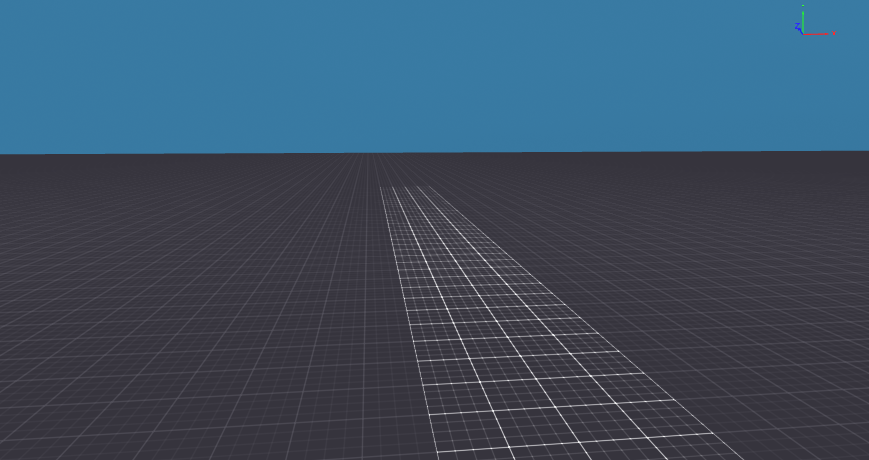
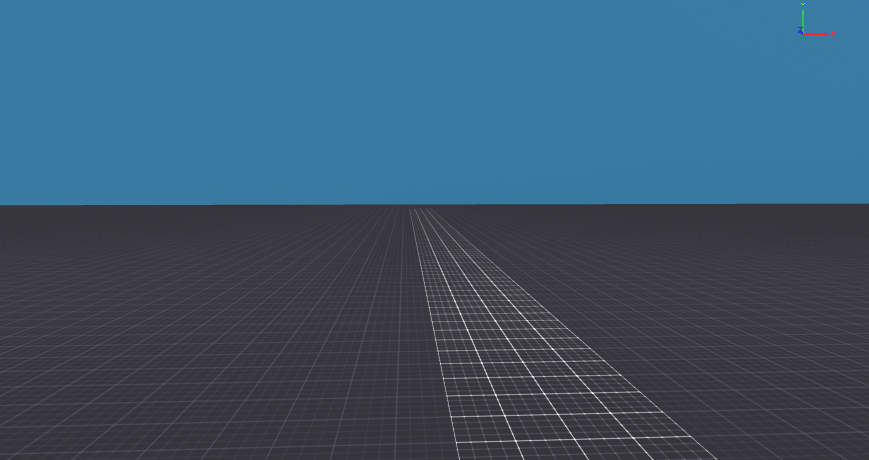
obstacles, baked ghosts optimization

Changed region(s): [[0.0, 0.3043, 1.0, 1.0], [0.9321, 0.0609, 0.9632, 0.0913]]

diff --git a/src/shared/bakedGhosts.ts b/src/shared/bakedGhosts.ts
@@ -5,14 +5,14 @@ import type { GhostChunk } from './codec'
 export const BAKED_GHOSTS: { name: string; chunks: GhostChunk[] }[] = [
   {
     name: "Rival A",
[2 lines of base64/hex data omitted]
   },
   {
     name: "Rival B",
[2 lines of base64/hex data omitted]
   },
   {
     name: "Rival C",
[2 lines of base64/hex data omitted]
   }
 ]

diff --git a/src/shared/track.ts b/src/shared/track.ts
@@ -48,13 +48,28 @@ export const TRACK_ORIGIN = Vector3.create(8, 0, 4)
  * walls at the turns stay inside the 16 m-wide parcel column).
  *
  * Pitch profile: 7.9° → 10.3° → 13.9° → 15.9° (steepening, so the three turn
- * joints are all CONCAVE and support the sphere), then eases 15.9° → 4.0° →
- * 2.2° → 1.1° → 0.4° across four gentle weaving transition steps before the
- * flat run-out (length pass, Sept 2026 — extended the easing tail instead of
- * adding a second steep S-bend, so every new joint stays CONVEX/seamless like
- * the original two transition steps; SEAM_Z below still only lists the three
- * original concave turn joints). pinForce keeps the sphere glued through the
- * concave joints; the convex ones need none.
+ * joints are all CONCAVE and support the sphere), then 2.0° → 3.6° → 1.2° →
+ * 4.5° across four weaving transition steps before the flat run-out (length
+ * pass, Sept 2026, redesigned in the kicker pass below — every segment here
+ * has real slope, none near-flat, on purpose: "some more, some less").
+ *
+ * Two of those four STEEPEN going in (2.0°→3.6° into joint5, 1.2°→4.5° into
+ * joint7) — the same kind of transition as the three turn joints: CONCAVE, the
+ * shallower slab's forward extension rides proud of the next steeper slab (a
+ * soft step-down that needs grip). SEAM_Z below lists indices [1,2,3,5,7] —
+ * the turn joints AND these two. The other two (15.9°→2.0° into joint4,
+ * 3.6°→1.2° into joint6) ease and stay CONVEX/seamless, same as the original
+ * transition joints — no pinning needed.
+ *
+ * Kicker pass history (Sept 2026): the tail originally eased 15.9°→4.0°→2.2°→
+ * 1.1°→0.4°, nearly flat for the last ~190 m — felt like crawling. Round 1
+ * reshuffled the fixed joint4→joint7(=RUNOUT_Y, then 3.9) budget into one
+ * kicker (~3.1°, budget-capped). Round 2 lowered RUNOUT_Y to 1.5 for a bigger
+ * budget (~5.4° kicker), but left joints 5-6 an almost-flat coast — "one
+ * section has no tilt". Round 3 (current) redesigned the whole tail for
+ * continuous variation instead of a flat coast + single kicker; RUNOUT_Y is
+ * now 0. RUNOUT_Y here, joint7 and RUNOUT_END in track-joints.ts are one
+ * edited set — keep all three equal.
  *
  * Δyaw at the three turn joints ≈ −14° / +18° / −14°. Edit the shape in
  * src/shared/track-joints.ts, then re-run `npm run gen-track`.
@@ -68,8 +83,9 @@ export const RUNOUT_START_Z = 372
  * dropped entirely (this was the end-of-track fall-through at the old Z=160
  * edge, now scaled up with the longer track). */
 export const RUNOUT_END_Z = 380
-/** Y of the flat run-out surface (matches the last joint). */
-export const RUNOUT_Y = 3.9
+/** Y of the flat run-out surface (matches the last joint — see the pitch-profile
+ * note above; landed at 0 by the kicker-pass budget, not a special-cased value). */
+export const RUNOUT_Y = 0
 
 const WORLD_UP = Vector3.create(0, 1, 0)
 
@@ -116,11 +132,13 @@ export const SEGMENTS: TrackSegment[] = (() => {
 })()
 
 /**
- * Z of the concave floor-slab joints (turn joints) where the forward-extended
- * slabs leave a small step-down. The vehicle pins the sphere harder within
- * ±SEAM_ZONE of these. The convex transition joints are seamless and not listed.
+ * Z of the CONCAVE joints — turns (indices 1-3) plus the two steepening tail
+ * joints from the kicker pass (indices 5, 7; see the pitch-profile note above)
+ * — where the forward-extended slabs leave a small step-down. The vehicle pins
+ * the sphere harder within ±SEAM_ZONE of these. The convex (easing) joints are
+ * seamless and not listed.
  */
-export const SEAM_Z: number[] = JOINTS.slice(1, 4).map((j) => j.z)
+export const SEAM_Z: number[] = [1, 2, 3, 5, 7].map((i) => JOINTS[i].z)
 export const SEAM_ZONE = 3.5
 
 /** the segment whose Z range contains z (clamped to the ends) */
@@ -182,7 +200,13 @@ export const SPAWN_LOOK: Vector3 = Vector3.add(surfacePointAt(SEGMENTS[0].a.z + 
  * `offset` is signed lateral distance from the centreline (+ = right of travel,
  * same convention as laneOffsetAt/trackOffsetAt). Kept away from SEAM_Z (the
  * concave floor seams already need special pinning) so a dodge never stacks on
- * top of a seam-transition frame. Client builds the mesh + collider in
+ * top of a seam-transition frame — SEAM_Z is now [40, 78, 116, 244, 372] (kicker
+ * pass added two tail seams), every Z below keeps a margin of several metres
+ * past ±SEAM_ZONE(3.5) of all five. Also kept clear of the spawn/grace area
+ * (nothing before Z 50) and the final approach (nothing past Z 350, ahead of
+ * the last kicker + flat run-out) so the finish stays a clean sprint. Doubled
+ * from 6 to 12 for the full-length track — the original 6 are unchanged, 6 new
+ * ones fill the gaps between them. Client builds the mesh + collider in
  * client/track.ts; this is pure placement data.
  */
 export interface Obstacle {
@@ -190,12 +214,18 @@ export interface Obstacle {
   offset: number
 }
 export const OBSTACLES: Obstacle[] = [
+  { z: 50, offset: -1.5 },
   { z: 60, offset: 1.2 },
   { z: 100, offset: -2.0 },
+  { z: 130, offset: 1.6 },
   { z: 160, offset: 2.0 },
+  { z: 185, offset: -1.9 },
   { z: 210, offset: -1.3 },
+  { z: 225, offset: 1.7 },
   { z: 270, offset: 1.8 },
-  { z: 330, offset: -2.1 }
+  { z: 300, offset: -1.1 },
+  { z: 330, offset: -2.1 },
+  { z: 350, offset: 1.5 }
 ]
 
 /**

diff --git a/src/server/server.ts b/src/server/server.ts
@@ -12,7 +12,7 @@
 
 import { Storage } from '@dcl/sdk/server'
 import { room } from '../shared/messages'
-import type { GhostChunk } from '../shared/codec'
+import { GHOST_FORMAT, type GhostChunk } from '../shared/codec'
 
 const TOP_N = 3 // as many live ghosts as baked rivals — keeps the mobile budget
 
@@ -51,18 +51,42 @@ function validBoard(v: unknown): LbEntry[] {
 
 function validChunks(v: unknown): GhostChunk[] {
   if (!Array.isArray(v)) return []
-  // shallow shape check — the codec decodes defensively anyway
-  return v.every((c) => c && typeof c.b64 === 'string' && typeof c.n === 'number') ? (v as GhostChunk[]) : []
+  // shape check + GHOST_FORMAT match. A track-geometry change (length, joints)
+  // bumps GHOST_FORMAT (see codec.ts) specifically because an old blob decodes
+  // to wrong-scale garbage under the new format, not an error — so a stale
+  // version must be rejected here, not just shape-checked.
+  return v.every((c) => c && c.v === GHOST_FORMAT && typeof c.b64 === 'string' && typeof c.n === 'number')
+    ? (v as GhostChunk[])
+    : []
 }
 
 async function loadBoard(): Promise<void> {
   try {
-    board = validBoard(await Storage.get<LbEntry[]>(LB_KEY))
-    for (const e of board) {
+    const rawBoard = validBoard(await Storage.get<LbEntry[]>(LB_KEY))
+    const kept: LbEntry[] = []
+    for (const e of rawBoard) {
       const c = validChunks(await Storage.get<GhostChunk[]>(ghostKey(e.addr)))
-      if (c.length > 0) blobs.set(e.addr, c)
+      if (c.length > 0) {
+        blobs.set(e.addr, c)
+        kept.push(e)
+      } else {
+        // stale GHOST_FORMAT (or missing blob) — drop the entry too, not just
+        // skip serving it. Left in place it would sit in a top-N slot forever
+        // (nothing ever beats a leftover time from the old shorter track) while
+        // never actually playing back. Persisted below so it doesn't reappear.
+        console.log(`[SERVER] board entry ${e.addr} has no current-format blob — dropping (stale run)`)
+      }
     }
-    console.log(`[SERVER] board loaded — ${board.length} entr${board.length === 1 ? 'y' : 'ies'}, ${blobs.size} blob(s)`)
+    const droppedCount = rawBoard.length - kept.length
+    board = kept
+    if (droppedCount > 0) {
+      const ok = await Storage.set(LB_KEY, board)
+      console.log(
+        `[SERVER] board loaded — dropped ${droppedCount} stale entr${droppedCount === 1 ? 'y' : 'ies'}, ${board.length} remain, persisted=${ok}`
+      )
+    } else {
+      console.log(`[SERVER] board loaded — ${board.length} entr${board.length === 1 ? 'y' : 'ies'}, ${blobs.size} blob(s)`)
+    }
   } catch (err) {
     console.log('[SERVER] board load failed, starting empty:', err)
     board = []

diff --git a/src/shared/track-joints.ts b/src/shared/track-joints.ts
@@ -14,15 +14,32 @@
 // (SEAM_Z only lists indices 1-3, unaffected by joints appended after them).
 // Total track: 158 m -> 380 m (+140%). Needs a live playtest / accelForce
 // retune pass — see CLAUDE.md §1 (run duration relaxed to 90-120s for this).
+//
+// Kicker pass, round 3 (Sept 2026): rounds 1-2 kept easing the tail down to a
+// near-flat coast (0.2°/0.2°) before one final kicker — "felt like there's one
+// flat section". Redesigned the whole post-peak tail (joints 4-7) for genuine
+// variation, no near-flat segment anywhere: 2.0° → 3.6° → 1.2° → 4.5°. Two of
+// those STEEPEN going in (2.0°→3.6° into joint5, 1.2°→4.5° into joint7) — same
+// kind of transition as the three turn joints (CONCAVE: the shallower slab's
+// forward extension rides proud of the next, steeper slab — a soft step-down
+// that needs grip). Added joints 5 and 7 to SEAM_Z in track.ts so they get the
+// same seamPin treatment, instead of leaving a new concave joint unprotected.
+// The other two (15.9°→2.0° into joint4, 3.6°→1.2° into joint6) still EASE —
+// CONVEX/seamless, same as before, no pinning needed. All four segments keep
+// their existing Z spacing (still 64 m legs) and X weave — only Y changed, so
+// CHECKPOINTS_Z / RUNOUT_START_Z / RUNOUT_END_Z / OBSTACLES are untouched.
+// Budget: joint3 (peak, Y 12.5, untouched) down to joint7 lands RUNOUT_Y at
+// exactly 0 — updated together with RUNOUT_END below and RUNOUT_Y in track.ts
+// (these three must be edited as a set).
 export const JOINT_TUPLES: ReadonlyArray<readonly [number, number, number]> = [
   [8, 34, 4], // seg 0   7.9°
   [11, 29, 40], // seg 1  10.3°
   [5, 22, 78], // seg 2  13.9°
   [11, 12.5, 116], // seg 3  15.9°  (steep — unchanged peak)
-  [5, 8.0, 180], // seg 4   4.0°  (easing begins)
-  [11, 5.5, 244], // seg 5   2.2°
-  [5, 4.3, 308], // seg 6   1.1°
-  [8, 3.9, 372] // seg 7   0.4°  -> flat run-out
+  [5, 10.3, 180], // seg 4   2.0°  (eases — convex)
+  [11, 6.3, 244], // seg 5   3.6°  (steepens — CONCAVE, in SEAM_Z)
+  [5, 5.0, 308], // seg 6   1.2°  (eases — convex)
+  [8, 0, 372] // seg 7   4.5°  (steepens — CONCAVE, in SEAM_Z; kicker -> flat run-out)
 ]
 
 /** Half the clear lane width, metres. */
@@ -37,4 +54,4 @@ export const FLOOR_DEPTH = 2
  * parcel border is dropped whole by the client (same bug the run-out slab hit
  * at the old Z=160 edge).
  */
-export const RUNOUT_END = [8, 3.9, 379] as const
+export const RUNOUT_END = [8, 0, 379] as const

diff --git a/src/client/track.ts b/src/client/track.ts
@@ -162,11 +162,31 @@ function buildRunout() {
   }
 }
 
+/**
+ * Perpendicular cap wall right behind the start of the track (joint0 / SEGMENTS[0].a).
+ * The segment walls already extend WALL_EXTEND past it, but nothing ever closed
+ * off the BACK — a player rolled/knocked backward before launch had open air
+ * there. Oriented like the segment walls (s.rotation aligns local Y to the
+ * surface normal, local Z to the travel direction — segment0 is tilted 7.9°,
+ * not flat, so this can't be an axis-aligned box like the finish end-wall).
+ */
+function buildSpawnWall() {
+  const s = SEGMENTS[0]
+  const height = WALL_HEIGHT * 2 // matches the finish end-wall's extra height — a hard stop, not hoppable
+  box(
+    Vector3.add(s.a, Vector3.scale(s.normal, height / 2)),
+    Vector3.create(CHUTE_INNER_WIDTH + 2, height, 1.5),
+    s.rotation,
+    WALL_COLOR
+  )
+}
+
 export function buildTrack() {
   // rails on every segment but the first (kept dim so the run starts in
   // near-dark, then lights up) — covers the turns AND the longer easing tail.
   SEGMENTS.forEach((s, i) => buildSegment(s, i >= 1))
   buildRunout()
+  buildSpawnWall()
   OBSTACLES.forEach(buildObstacle)
   console.log(`[CLIENT] track built (${SEGMENTS.length} segments, ${OBSTACLES.length} obstacles, box floor)`)
 }
